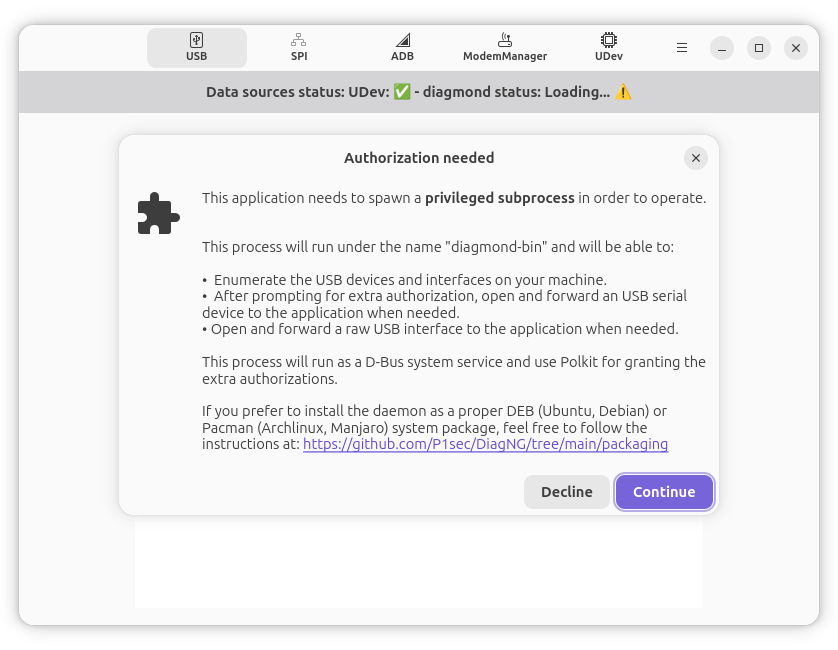
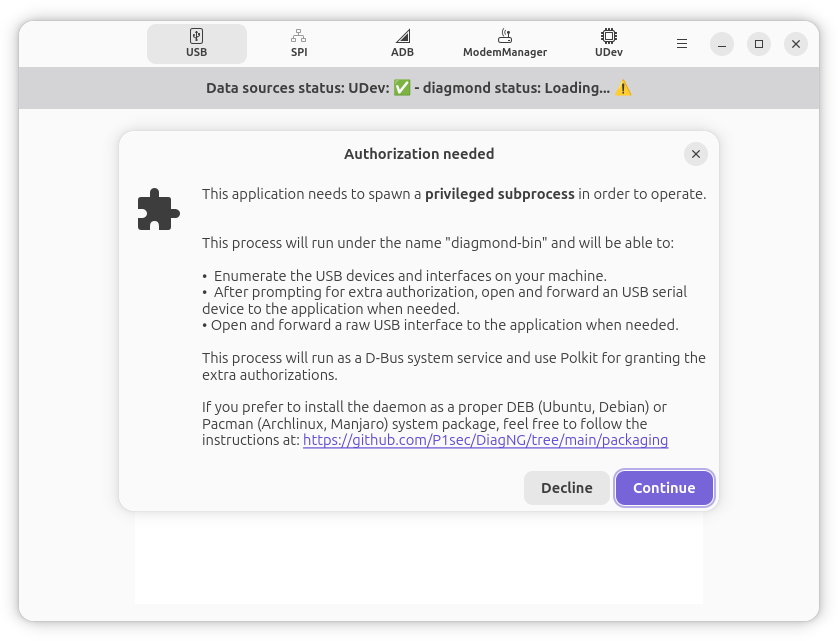
Ajust the margins of the cropped screenshots

diff --git a/README.md b/README.md
@@ -33,7 +33,7 @@ It should eventually support other basebands such as Samsung Exynos processors, 
 ## Screenshots
 
 <p align="center">
-<img src="https://github.com/P1sec/DiagNG/blob/main/packaging/screenshots/light/usb-3devices.png?raw=true" alt="Application main screen" width="838">
+<img src="https://github.com/P1sec/DiagNG/blob/main/packaging/screenshots/light/usb-3devices-1x.png?raw=true" alt="Application main screen" width="838">
 
 <img src="https://github.com/P1sec/DiagNG/blob/main/packaging/screenshots/light/qcdm-air-1x.png?raw=true" alt="Network capture screen" width="838">
 
